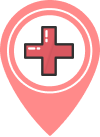
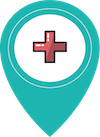
feat : 마커 이미지 변경, 마커 선택 시 맨앞에 나오도록 변경
[S06P22D108-176]

Former-commit-id: 9475bc5d26129494774a4b45b9195f2121b800ff

diff --git a/frontend/src/components/MedicalInfo/MedicalMarkerContainer.tsx b/frontend/src/components/MedicalInfo/MedicalMarkerContainer.tsx
@@ -3,8 +3,8 @@ import { IHospital } from "../../interface";
 
 import MarkerImgHospital from "../../assets/medical_png/marker_hospital.png";
 import MarkerImgMedicine from "../../assets/medical_png/marker_medicine.png";
-import MarkerImgHospitalSelect from "../../assets/medical_png/marker_hospital_select.png";
-import MarkerImgMedicineSelect from "../../assets/medical_png/marker_medicine_select.png";
+// import MarkerImgHospitalSelect from "../../assets/medical_png/marker_hospital_select.png";
+// import MarkerImgMedicineSelect from "../../assets/medical_png/marker_medicine_select.png";
 import "./MedicalMarkerContainer.css";
 
 interface MarkerProps {
@@ -58,6 +58,7 @@ export default function EventMarkerContainer(props: MarkerProps) {
               spriteOrigin: spriteMargin,
             },
           }}
+          zIndex={hospital.name === selectHospital ? 3 : 1}
         />
       )}
       {/* {hospital.type === "hospital" && hospital.name === selectHospital && (
@@ -95,6 +96,7 @@ export default function EventMarkerContainer(props: MarkerProps) {
               spriteOrigin: spriteMargin,
             },
           }}
+          zIndex={hospital.name === selectHospital ? 3 : 1}
         />
       )}
       {/* {hospital.type === "pharmacy" && hospital.name === selectHospital && (
@@ -118,6 +120,7 @@ export default function EventMarkerContainer(props: MarkerProps) {
       <CustomOverlayMap
         position={{ lat: hospital.lat, lng: hospital.lng }}
         yAnchor={1}
+        zIndex={hospital.name === selectHospital ? 3 : 1}
       >
         <div
           className="customoverlay"

diff --git a/frontend/src/components/MedicalInfo/MedicalMap.tsx b/frontend/src/components/MedicalInfo/MedicalMap.tsx
@@ -1,9 +1,8 @@
 import { Map, MapMarker, useMap, ZoomControl } from "react-kakao-maps-sdk";
 import { IHospital, ICoord } from "../../interface";
 import MedicalMarkerContainer from "./MedicalMarkerContainer";
-import CustomCurpos from "../../assets/medical_png/map_curpos.png";
+import MarkerMePng from "../../assets/medical_png/marker_me.png";
 import "./MedicalMap.css";
-import { useEffect } from "react";
 
 declare global {
   interface Window {
@@ -62,10 +61,10 @@ export default function KakaoMap(props: MedicalMapProps) {
         <MapMarker
           position={{ lat: nowCenter.lat, lng: nowCenter.lng }} // 마커를 표시할 위치
           image={{
-            src: CustomCurpos,
-            size: CustomCurpos,
+            src: MarkerMePng,
+            size: MarkerMePng,
             options: {
-              spriteSize: { width: 36, height: 36 },
+              spriteSize: { width: 36, height: 60 },
               spriteOrigin: { x: 20, y: 65 },
             },
           }}
